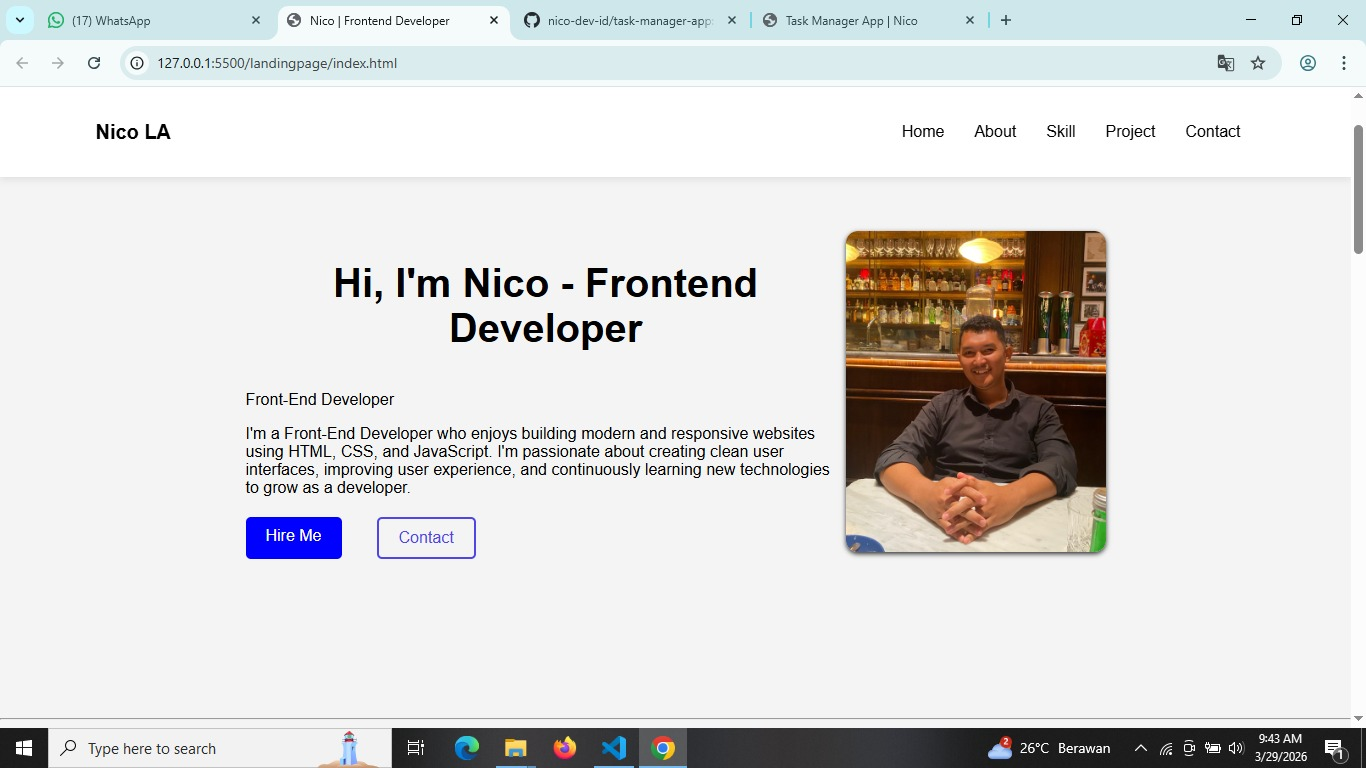
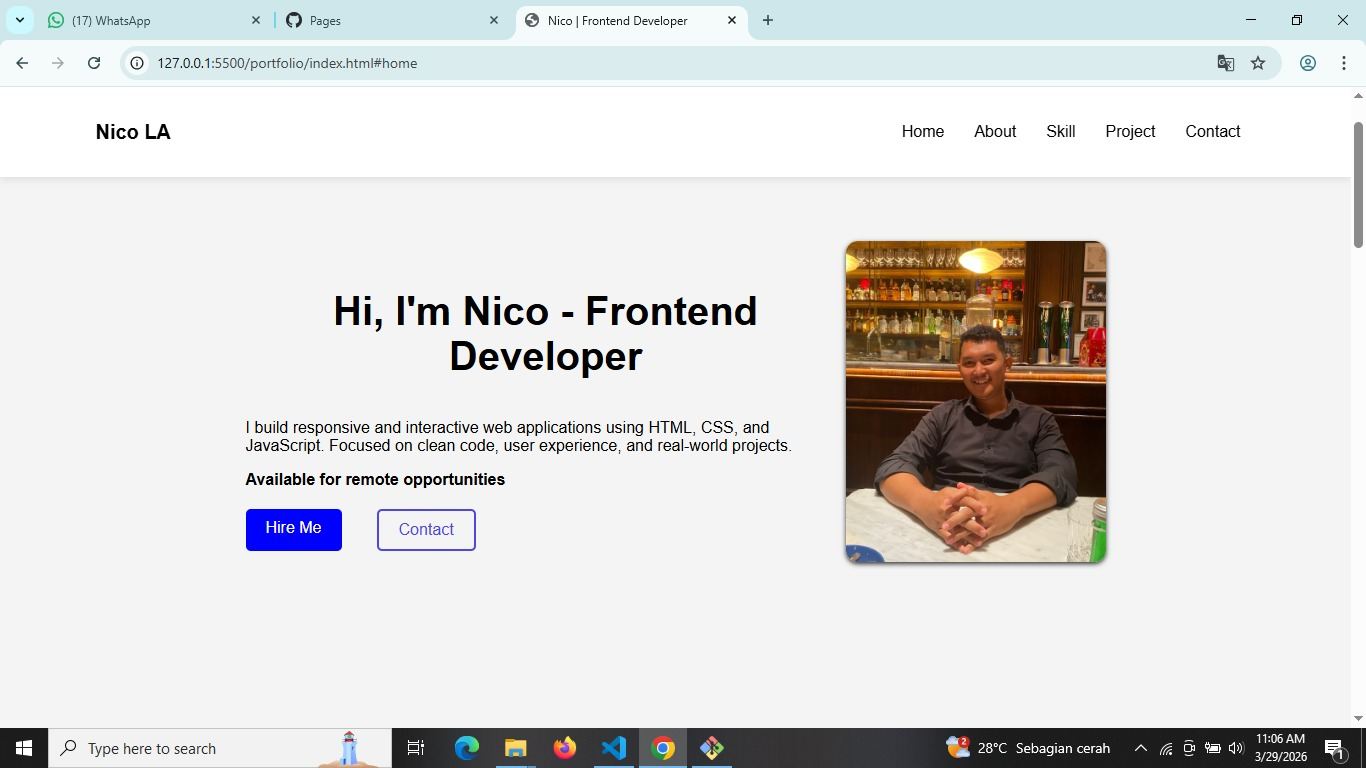
Final portfolio polish

diff --git a/index.html b/index.html
@@ -3,7 +3,7 @@
 <head>
     <meta charset="UTF-8">
     <meta name="viewport" content="width=device-width, initial-scale=1.0">
-    <title>Nico | Frontend Developer</title>
+    <title>Nico | Frontend Developer Portfolio</title>
     <link rel="stylesheet" href="style.css?v=3">
 </head>
 
@@ -32,16 +32,17 @@
             <div class="hero-content">
             <div class="hero-text">
                 
-                <h2 class="hero-title">Hi, I'm Nico Leori Agratama</h2>
-                <p>Front-End Developer</p>
-                <p>I'm a Front-End Developer who enjoys building modern and responsive websites using HTML, CSS, and JavaScript.
-                    I'm passionate about creating clean user interfaces, 
-                    improving user experience, and continuously learning 
-                    new technologies to grow as a developer.</p>
+                <h2 class="hero-title">Hi, I'm Nico - Frontend Developer</h2>
+                <p>I build responsive and interactive web applications using HTML, CSS, and JavaScript. 
+                    Focused on clean code, user experience, and real-world problem solving.
+                    Currently learning React and API integration.</p>
+                <p style="margin-top:10px; font-weight: bold; color:#4f46e5">
+                    Open to Remote Work</p>
+                <p></p>
 
             <div class="hero-button">
-                <a href="#" class="btn-primary">Hire Me</a>
-                <a href="#" class="btn-secondary">Contact</a>
+                <a href="mailto:nico13la@gmail.com" class="btn-primary">Hire Me</a>
+                <a href="#contact" class="btn-secondary">Contact</a>
             </div>
         </div>
             <div class="hero-image">
@@ -61,7 +62,7 @@
         <p>
             I'm Nico Leori Agratama, a self-taught Front-End Developer 
             focused on building responsive and modern websites using 
-            HTML, CSS, and JavaScript.
+            HTML, CSS, JavaScript, DOM Manipulation, Event Handling, Responsive Design and LocalStorage.
         </p>
         <p>I enjoy solving problems, improving user experience, 
             and continuously learning new technologies to grow as a developer.
@@ -145,7 +146,8 @@
                 <img src="img/landing-page.jpeg" alt="Landing Page Project">
 
                 <h3>Landing Page Website</h3>
-                <p>Website Landing Page uses HTML and CSS.</p>
+                <p>Responsive landing page built with HTML and CSS, focused on clean layout, 
+                    modern UI, and mobile-first design.</p>
                 
                 <div class="tech">
                     <span>HTML</span>
@@ -154,8 +156,8 @@
                 </div>
 
                 <div class="project-button">
-                    <a href="#">Live Demo</a>
-                    <a href="#">Github</a>
+                    <a href="https://nico-dev-id.github.io/portfolio/" target="_blank">Live Demo</a>
+                    <a href="https://github.com/nico-dev-id/portfolio/">Github</a>
                 </div>
             </div>
 
@@ -163,7 +165,8 @@
                 <img src="img/todolist.jpeg" alt="Task Manager App">
 
                 <h3>Task Manager App</h3>
-                <p>task manager built with Vanilla JavaScript.</p>
+                <p>A responsive task management application with drag-and-drop functionality, 
+                    filtering system, and persistent data using LocalStorage.</p>
 
                  <div class="tech">
                     <span>JavaScript</span>
@@ -173,7 +176,7 @@
 
                 <div class="project-button">
                     <a href="https://nico-dev-id.github.io/task-manager-app/" target="_blank">Live Demo</a>
-                    <a href="https://github.com/nico-dev-id/task-manager-app" target="_blank">Github</a>
+                    <a href="https://github.com/nico-dev-id/task-manager-app/" target="_blank">Github</a>
                 </div>
             </div>
 
@@ -181,7 +184,7 @@
                 <img src="img/weather.png" alt="Weather App">
 
                 <h3>Weather App</h3>
-                <p>Coming soon...</p>
+                <p>Weather App Using API (Coming soon...)</p>
 
                  <div class="tech">
                     <span>JavaScript</span>
@@ -201,6 +204,7 @@
     <section class="contact" id="contact">
         <div class="container">
         <h2>Contact Me</h2>
+        <p>Email: nico13la@gmail.com</p>
 
         <form class="contact-form">
             <label>Name</label>
@@ -219,7 +223,7 @@
 
     <footer>
         <div class="container">
-            <p>Copyright 2026</p>
+            <p>© 2026 Nico Leori Agratama. All rights reserved.</p>
         </div>
     </footer>
 

diff --git a/script.js b/script.js
@@ -1,13 +1,9 @@
-//console.log("JavaScript berhasil terhubung!");
 
 const heroTitle = document.querySelector(".hero-title");
 const hireButton=document.querySelector(".btn-primary");
 const output=document.querySelector("#output");
 const menuToggle = document.querySelector(".menu-toggle");
 const navLinks = document.querySelector(".nav-links");
-
-
-heroTitle.textContent="Hi, I'm Nico - Frontend Developer";
 
 heroTitle.style.color = "black";
 heroTitle.style.fontSize="40px";

diff --git a/style.css b/style.css
@@ -71,7 +71,8 @@ nav a{
 }
 
 nav a:hover{
-    background-color: aqua;
+    background-color: #4f46e5;
+    color: white;
     border-radius: 15px;
     transition: 0.3s;
 }
@@ -310,6 +311,13 @@ form{
 
 .contact{
     padding: 60px 20px;
+}
+
+.contact h2 {
+    margin-bottom: 5px ;
+}
+.contact p {
+    text-align: center;
 }
 
 .contact-form{
